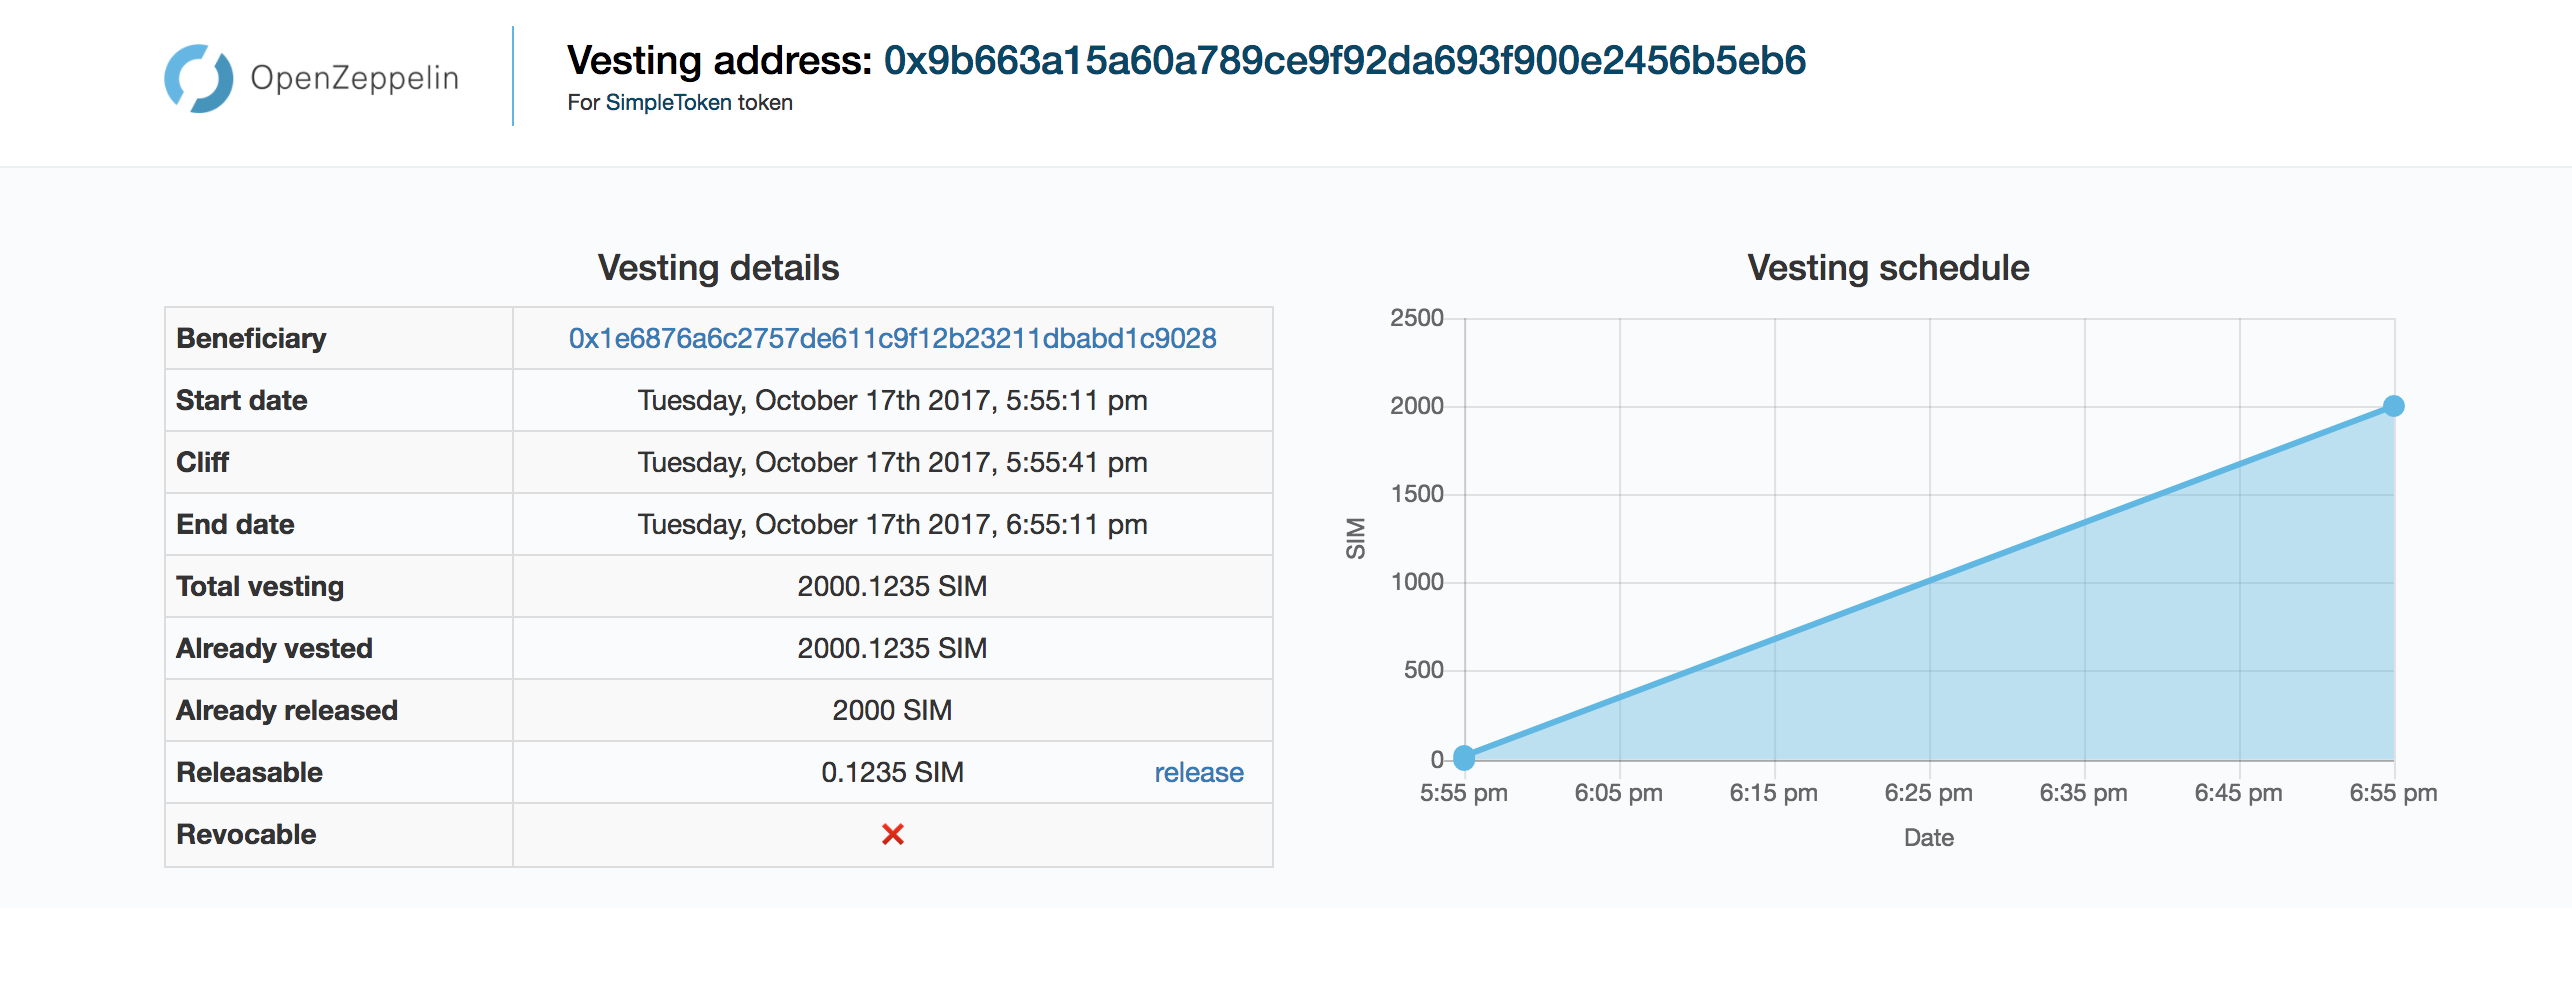
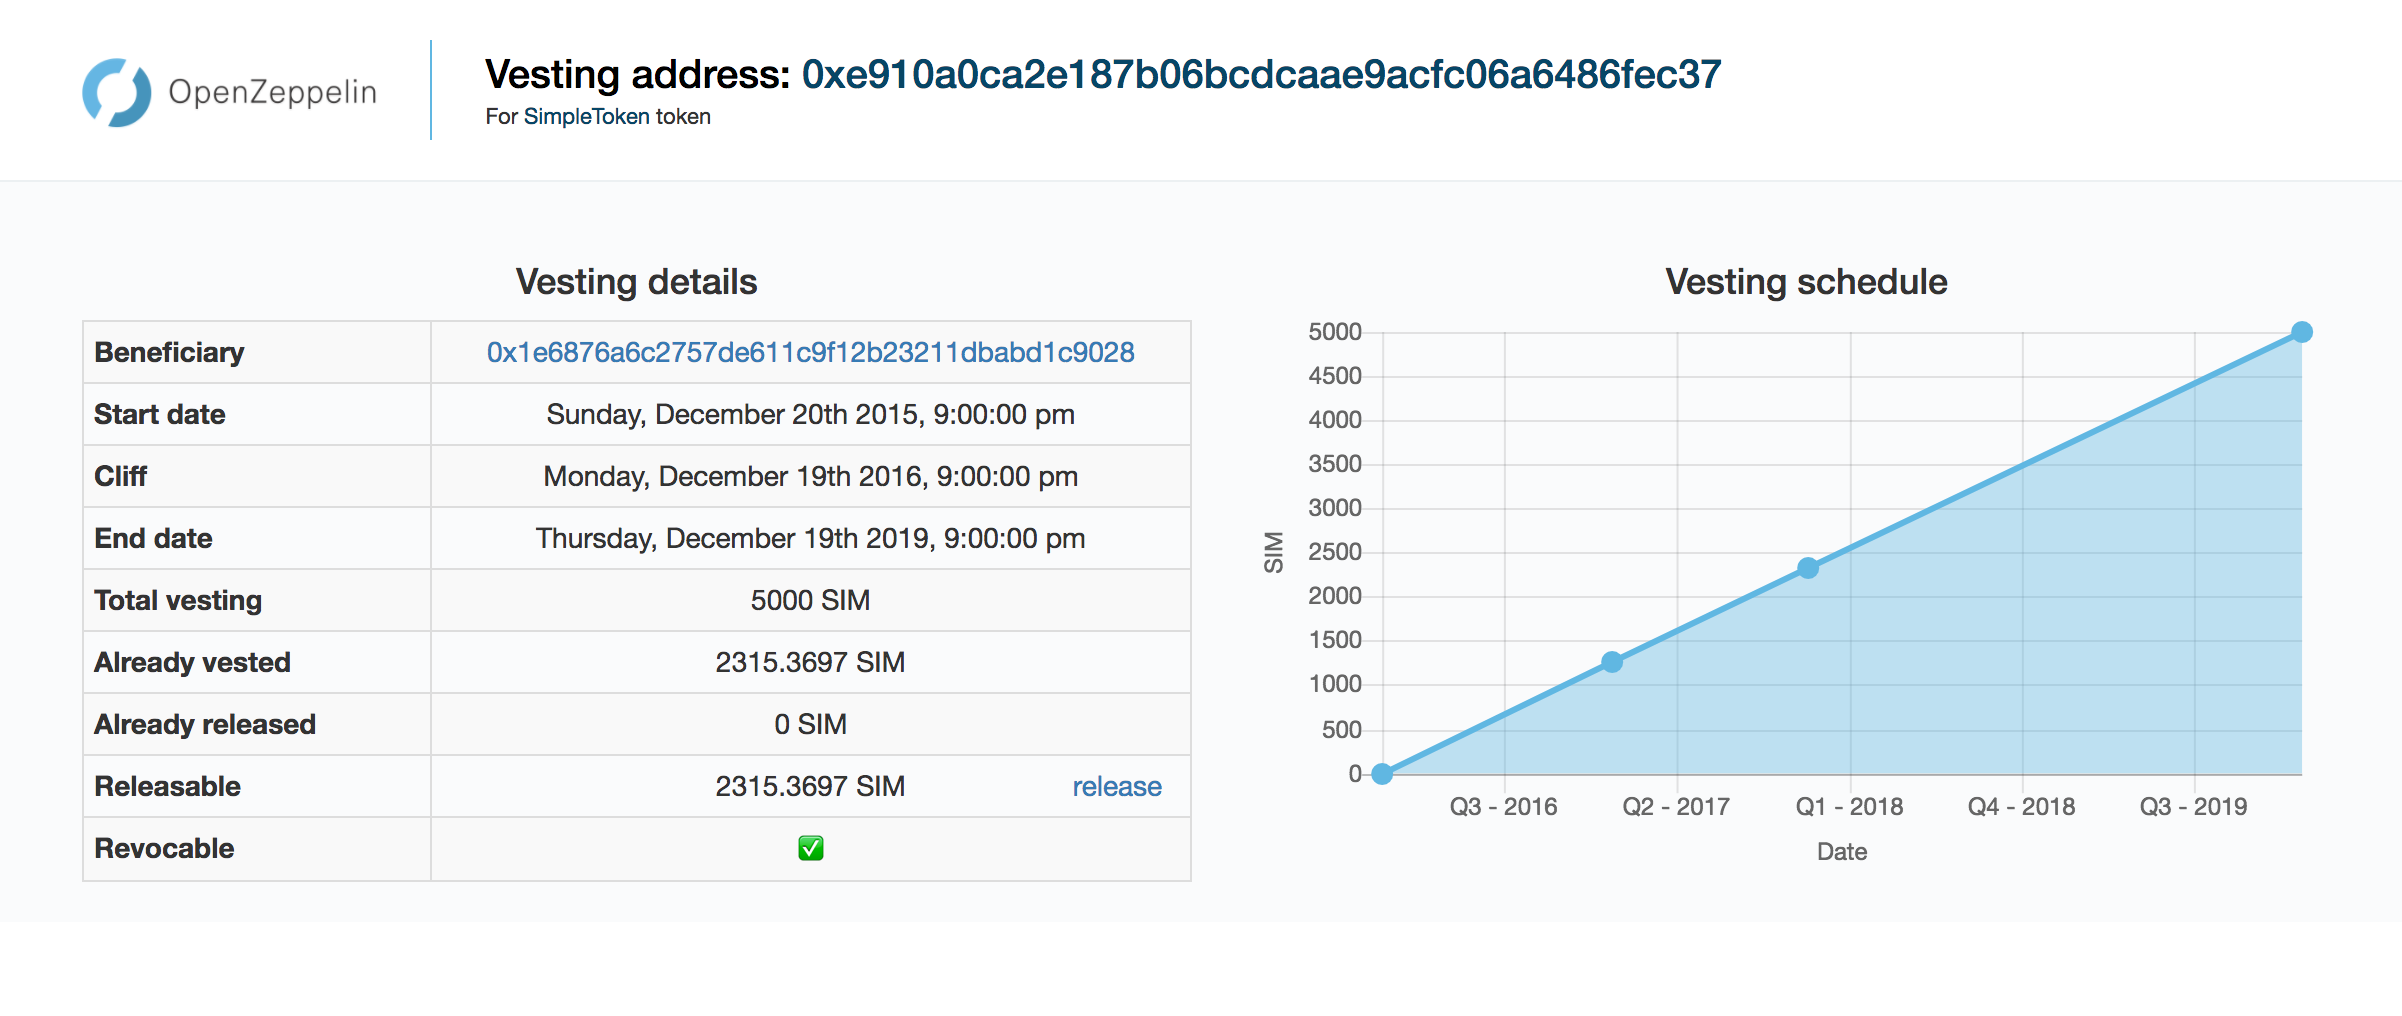
Fix chart edge case + transfer funds on truffle migrate

diff --git a/src/views/VestingChart.jsx b/src/views/VestingChart.jsx
@@ -20,32 +20,45 @@ class VestingChart extends Component {
   }
 
   getPoints() {
-    const { start, cliff, end, total, vested, decimals } = this.props.details
+    const { start, cliff, end } = this.props.details
     const now = new Date() / 1000 // normalize to seconds
 
-    const points = [
-      { x: this.formatDate(start), y: 0 },
-      { x: this.formatDate(cliff), y: this.getCliffAmount() }
-    ]
+    const points = [ this.getDataPointAt(start) ]
 
-    if (start < now && now < end) {
-      points.push({ x: this.formatDate(now), y: displayAmount(vested, decimals) })
+    // Add signitificant datapoints. Order matters.
+    if (cliff < now) {
+      points.push(this.getDataPointAt(cliff))
     }
 
-    points.push({ x: this.formatDate(end), y: displayAmount(total, decimals) })
+    if (start < now && now < end) {
+      points.push(this.getDataPointAt(now))
+    }
+
+    if (cliff > now) {
+      points.push(this.getDataPointAt(cliff))
+    }
+
+    points.push(this.getDataPointAt(end))
 
     return points
   }
 
-  getCliffAmount() {
-    const { total, start, cliff, end, decimals } = this.props.details
-    const slope = (cliff - start) / (end - start)
-
-    return displayAmount(total, decimals) * slope
+  getDataPointAt(date) {
+    return {
+      x: this.formatDate(date),
+      y: this.getAmountAt(date)
+    }
   }
 
   formatDate(date) {
     return moment(date * 1000).format('MM/DD/YYYY HH:mm')
+  }
+
+  getAmountAt(date) {
+    const { total, start, end, decimals } = this.props.details
+    const slope = (date - start) / (end - start)
+
+    return displayAmount(total, decimals) * slope
   }
 
   chartOptions() {

diff --git a/migrations/2_deploy_contracts.js b/migrations/2_deploy_contracts.js
@@ -4,10 +4,15 @@ const SimpleToken = artifacts.require("SimpleToken")
 module.exports = function(deployer) {
   const beneficiary = "0x1E6876a6C2757de611c9F12B23211dBaBd1C9028"
 
-  const start = 151088760 // 10/04/2016
-  const cliff = 30 // ~1 yr
-  const duration = 60 * 60 // ~4yrs
+  const start = 1450656000
+  const cliff = 31536000 // ~1 yr
+  const duration = 126144000 // ~4yrs
+  const amount = 5000 * 1e18
 
-  deployer.deploy(TokenVesting, beneficiary, start, cliff, duration, false)
-  deployer.deploy(SimpleToken)
-};
+  deployer.deploy(TokenVesting, beneficiary, start, cliff, duration, true).then(() => {
+    return deployer.deploy(SimpleToken)
+  }).then(() => {
+    const simpleToken = SimpleToken.at(SimpleToken.address)
+    simpleToken.transfer(TokenVesting.address, amount)
+  })
+}

diff --git a/src/App.jsx b/src/App.jsx
@@ -1,7 +1,8 @@
 import React from 'react'
 import { BrowserRouter as Router, Route, Switch } from 'react-router-dom'
-import TokenVestingApp from './views/TokenVestingApp'
 import Web3 from 'web3'
+
+import TokenVestingApp from './views/TokenVestingApp'
 
 const App = () => (
   <Router>
